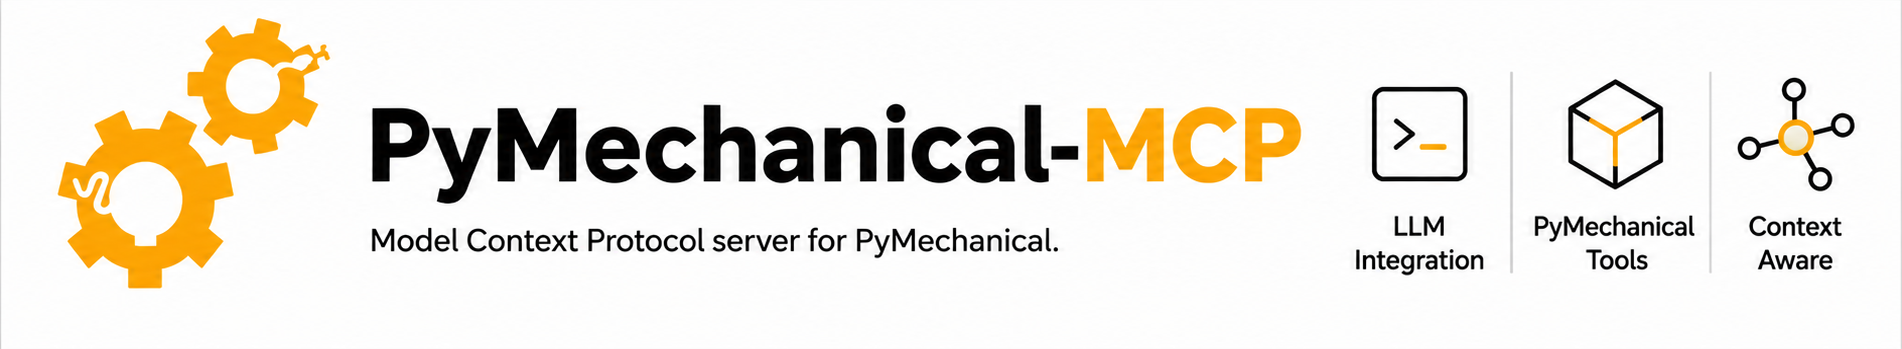
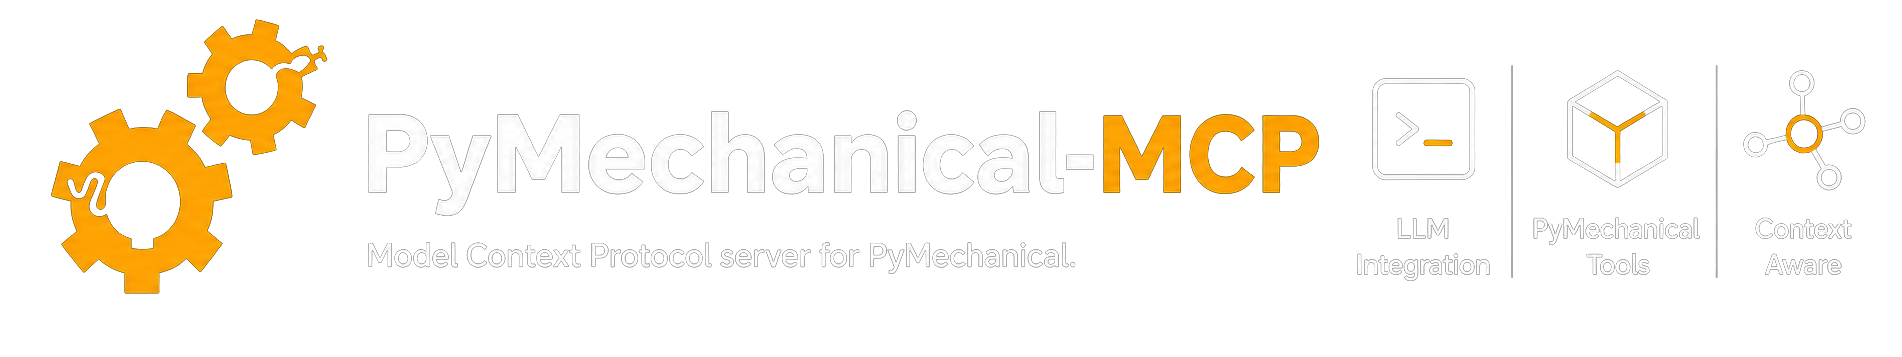
fix: follow up fixes (#26)
* fix: release job

* chore: adding changelog file 26.fixed.md [dependabot-skip]

* fix: version

* fix: security file license

* fix: pre-commit

* Improved logos

---------

diff --git a/doc/source/conf.py b/doc/source/conf.py
@@ -19,25 +19,10 @@
 from datetime import datetime
 import os
 from pathlib import Path
-import re
-import sys
 
 from ansys_sphinx_theme import ansys_favicon, get_version_match, pyansys_logo_black
 
-# Add package source directory for autodoc/version imports.
-sys.path.insert(0, str(Path(__file__).resolve().parents[2] / "src"))
-
-
-def _read_project_version() -> str:
-    pyproject = Path(__file__).resolve().parents[2] / "pyproject.toml"
-    content = pyproject.read_text(encoding="utf-8")
-    match = re.search(r'^version\s*=\s*"([^"]+)"', content, re.MULTILINE)
-    if not match:
-        raise RuntimeError("Unable to determine project version from pyproject.toml")
-    return match.group(1)
-
-
-__version__ = _read_project_version()
+from ansys.mechanical.mcp import __version__
 
 # Project information
 project = "pymechanical-mcp"
@@ -104,11 +89,6 @@ extensions = [
     "sphinx.ext.intersphinx",
 ]
 
-autodoc_mock_imports = [
-    "ansys.mechanical.core",
-]
-autosummary_mock_imports = autodoc_mock_imports
-
 # Intersphinx mapping
 intersphinx_mapping = {
     "python": ("https://docs.python.org/3", None),
@@ -120,9 +100,16 @@ numpydoc_show_class_members = False
 numpydoc_xref_param_type = True
 autosectionlabel_prefix_document = True
 
-numpydoc_validate = False
-numpydoc_validation_checks: set[str] = set()
-
+numpydoc_validate = True
+numpydoc_validation_checks = {
+    "GL08",  # The object does not have a docstring
+    "GL09",  # Deprecation warning should precede extended summary
+    "GL10",  # reST directives must be followed by two colons
+    "SS01",  # No summary found
+    "SS02",  # Summary does not start with a capital letter
+    "SS04",  # Summary contains heading whitespaces
+    "RT02",  # The first line of the Returns section should contain only the type
+}
 # Add any paths that contain templates here, relative to this directory.
 templates_path = ["_templates"]
 

diff --git a/src/ansys/mechanical/mcp/__init__.py b/src/ansys/mechanical/mcp/__init__.py
@@ -22,13 +22,15 @@ preprocessing, solving, and postprocessing tasks.
 
 """
 
-__version__ = "0.1.0"
-
+import importlib.metadata as importlib_metadata
 
 from ansys.mechanical.mcp.server import (
     app,
     launcher,
 )
+
+__version__ = importlib_metadata.version(__name__.replace(".", "-"))
+"""PyMechanical MCP version."""
 
 __all__ = [
     "app",

diff --git a/SECURITY.md b/SECURITY.md
@@ -1,5 +1,5 @@
 <!--
-Copyright (C) 2025 - 2026 ANSYS, Inc. and/or its affiliates.
+Copyright (C) 2026 ANSYS, Inc. and/or its affiliates.
 SPDX-License-Identifier: Apache-2.0
 
 

diff --git a/doc/changelog.d/26.fixed.md b/doc/changelog.d/26.fixed.md
@@ -1,0 +1,1 @@
+Follow up fixes